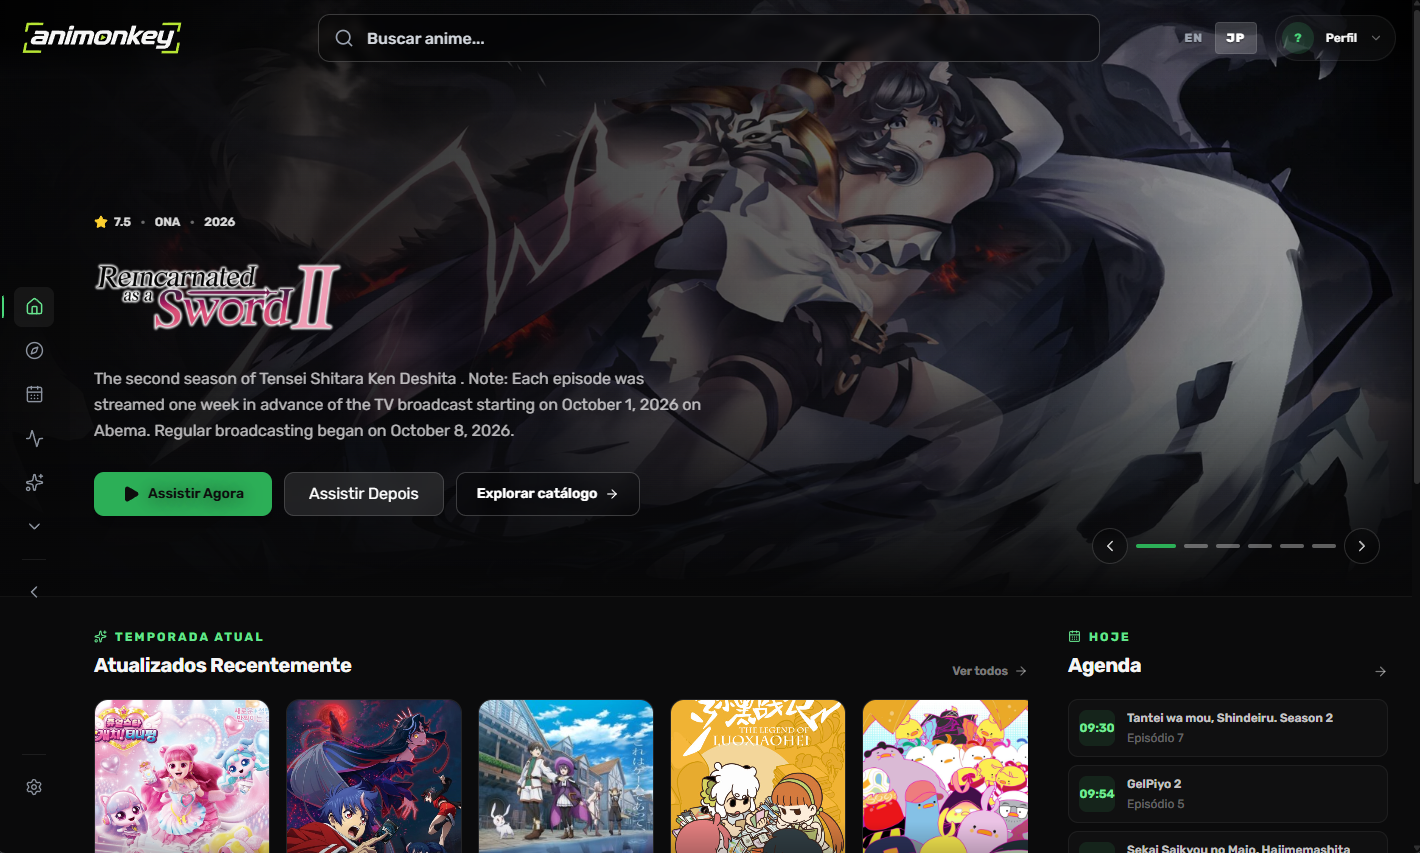
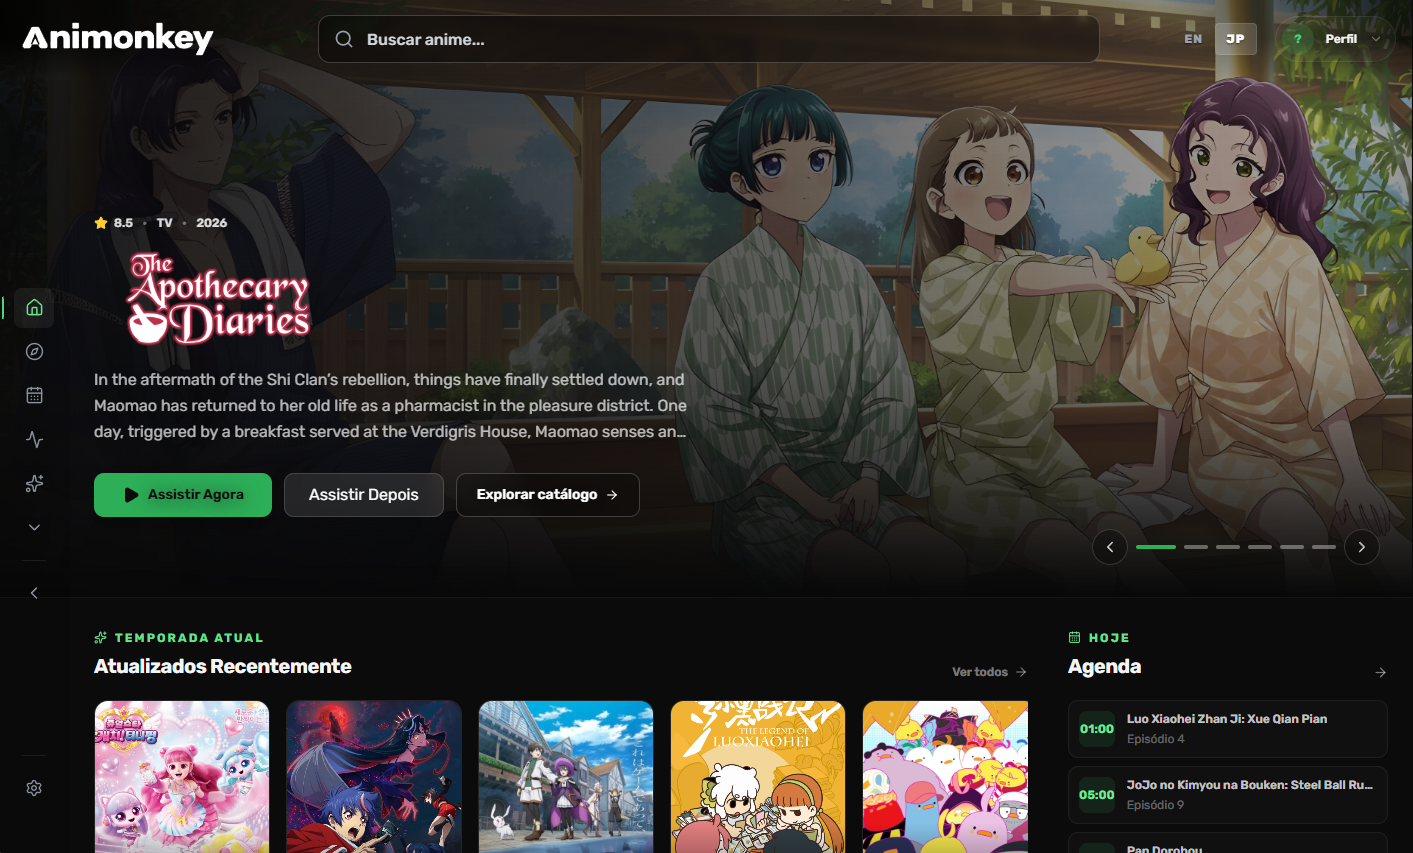
docs(readme): update home screenshot

diff --git a/docs/releases/1.0-checklist.md b/docs/releases/1.0-checklist.md
@@ -25,9 +25,9 @@
 - **Implementação local:** a busca da navbar foi centralizada e a barra passou a ter até 800 px, mantendo a expansão simétrica em torno do centro. O logo foi reduzido de 176 para 160 px na revisão do shell e voltou a 176 px após a aprovação da nova marca em 20/11/2026 (commit `a71ba64`). README e tradução usam a screenshot HOME original fornecida pelo usuário, preservada sem edição em `docs/screenshots/home.png` (commit `15602f9`); o usuário enviará uma captura nova antes da atualização dessa imagem. A estrutura editorial descreve o catálogo, a biblioteca local, a sincronização opcional e a reprodução dependente de providers. Em 19/11/2026, ambos passaram a agradecer a JulioC090 pelo Accendo Electron React App Template, com links para o perfil e o repositório do template.
 - **Validações:** na revisão editorial anterior, Prettier passou para os dois READMEs, `package.json` e checklist; os links locais de 21 documentos Markdown e a sintaxe JSON do pacote foram conferidos, e `git diff --check` passou. Nesta atualização de créditos, Prettier e `git diff --check` também passaram. O hook do commit roda `pnpm lint` e `pnpm typecheck`. O primeiro `pnpm make --platform=win32 --arch=x64` falhou no hook do runtime Anivexa porque uma instância Electron mantinha o binário nativo carregado; após fechar a instância, o make concluiu com exit code 0 usando Node v26.13.1 e pnpm 10.33.3.
 - **Artefatos atuais:** `out/Animonkey-win32-x64/Animonkey.exe` (225.533.440 bytes; `LastWriteTime` 18/11/2026 19:26:24 -03), `out/make/squirrel.windows/x64/Animonkey-1.0.0 Setup.exe` (147.338.752 bytes; 19:27:12 -03) e `animonkey_electron-1.0.0-full.nupkg` (146.639.718 bytes; 19:27:07 -03). O pacote ainda não foi usado em smoke.
[2 lines of base64/hex data omitted]
 - **Metadados GitHub:** descrição “Anime discovery and personal-library desktop app: browse AniList, track your library offline, optionally sync, and play episodes from available Anivexa sources.” aplicada e conferida na página do repositório; os tópicos existentes foram mantidos.
-- **Próximo passo:** a limpeza e o primeiro fluxo seguem pendentes porque a operação seletiva foi bloqueada duas vezes pela política de execução. Aguardar uma forma autorizada de executar a mesma remoção; não contornar o bloqueio com outro método. Depois, limpar somente `Cache`, preservar `IndexedDB`/`Local Storage` e percorrer o fluxo inicial no executável existente. Substituir a captura do README somente após receber a nova imagem do usuário.
+- **Próximo passo:** a limpeza e o primeiro fluxo seguem pendentes porque a operação seletiva foi bloqueada duas vezes pela política de execução. Aguardar uma forma autorizada de executar a mesma remoção; não contornar o bloqueio com outro método. Depois, limpar somente `Cache`, preservar `IndexedDB`/`Local Storage` e percorrer o fluxo inicial no executável existente.
 
 ## Candidato sob avaliação
 
